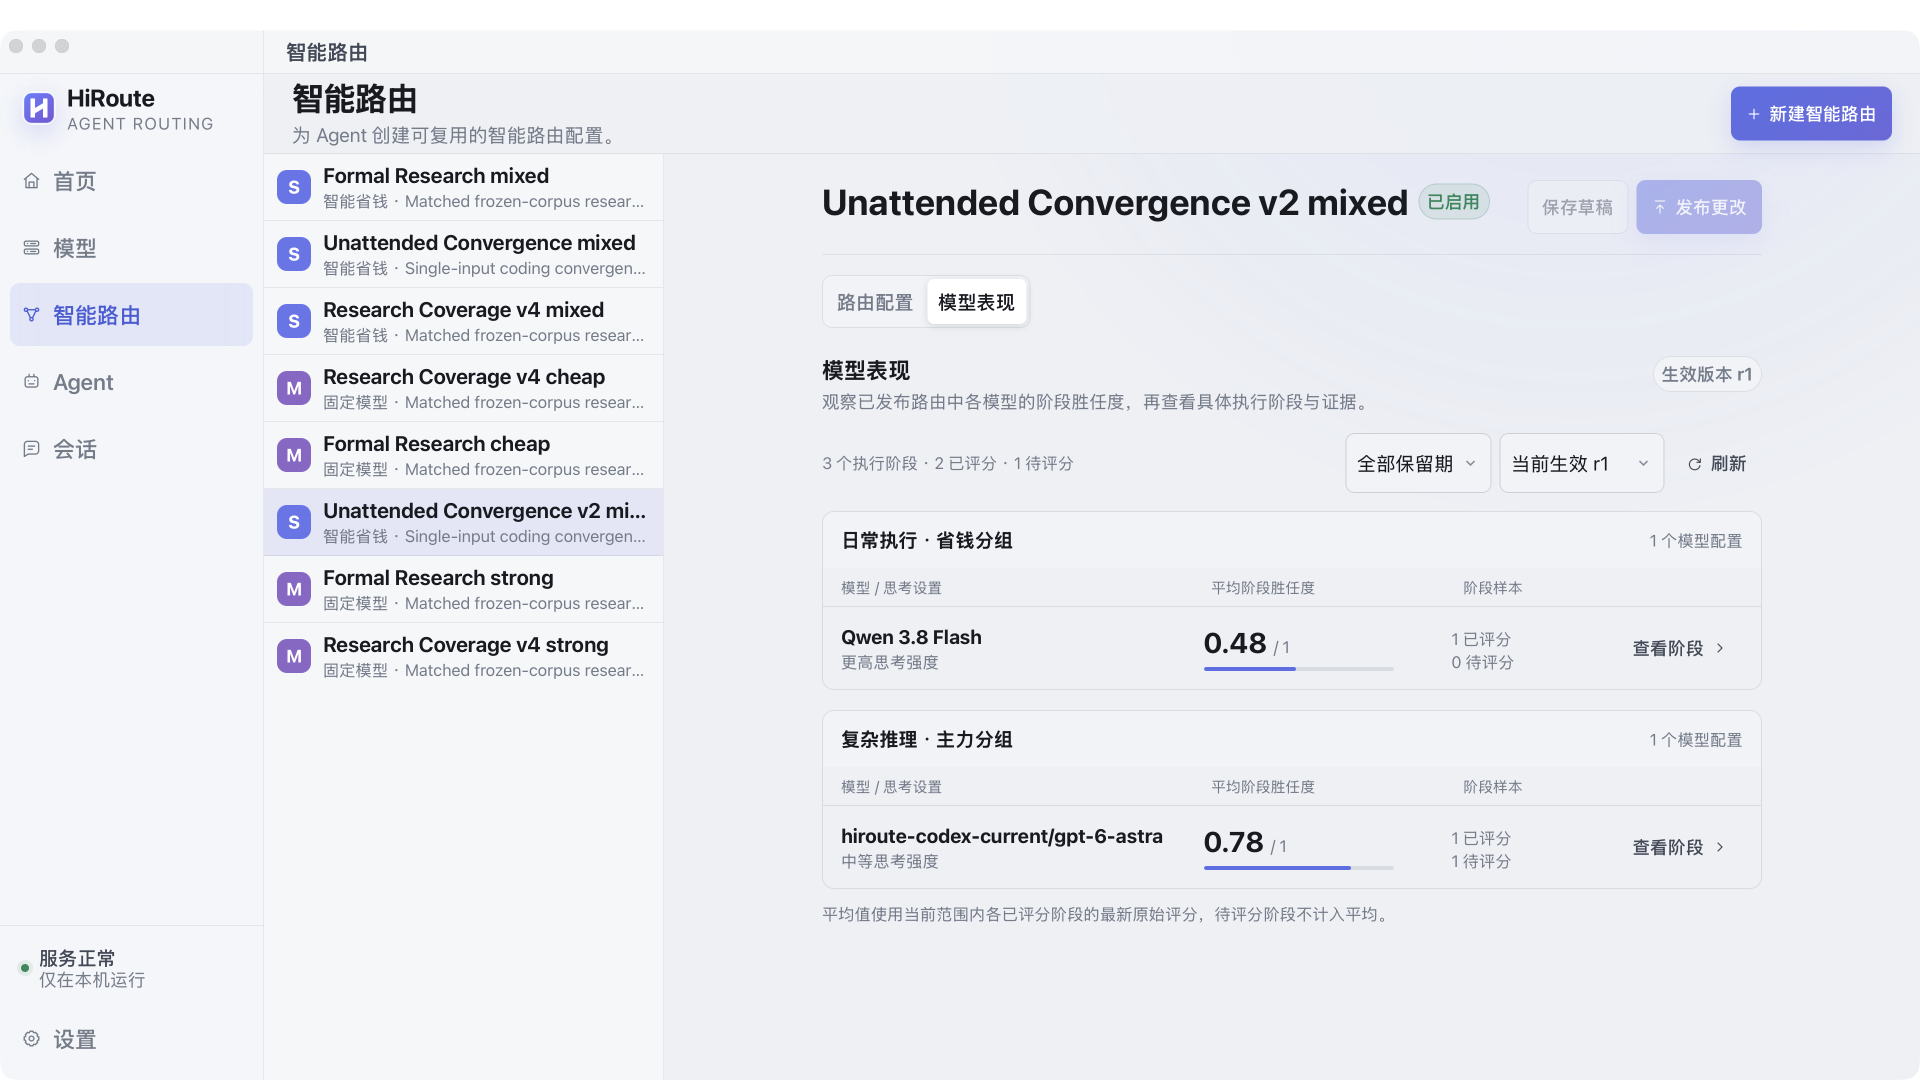
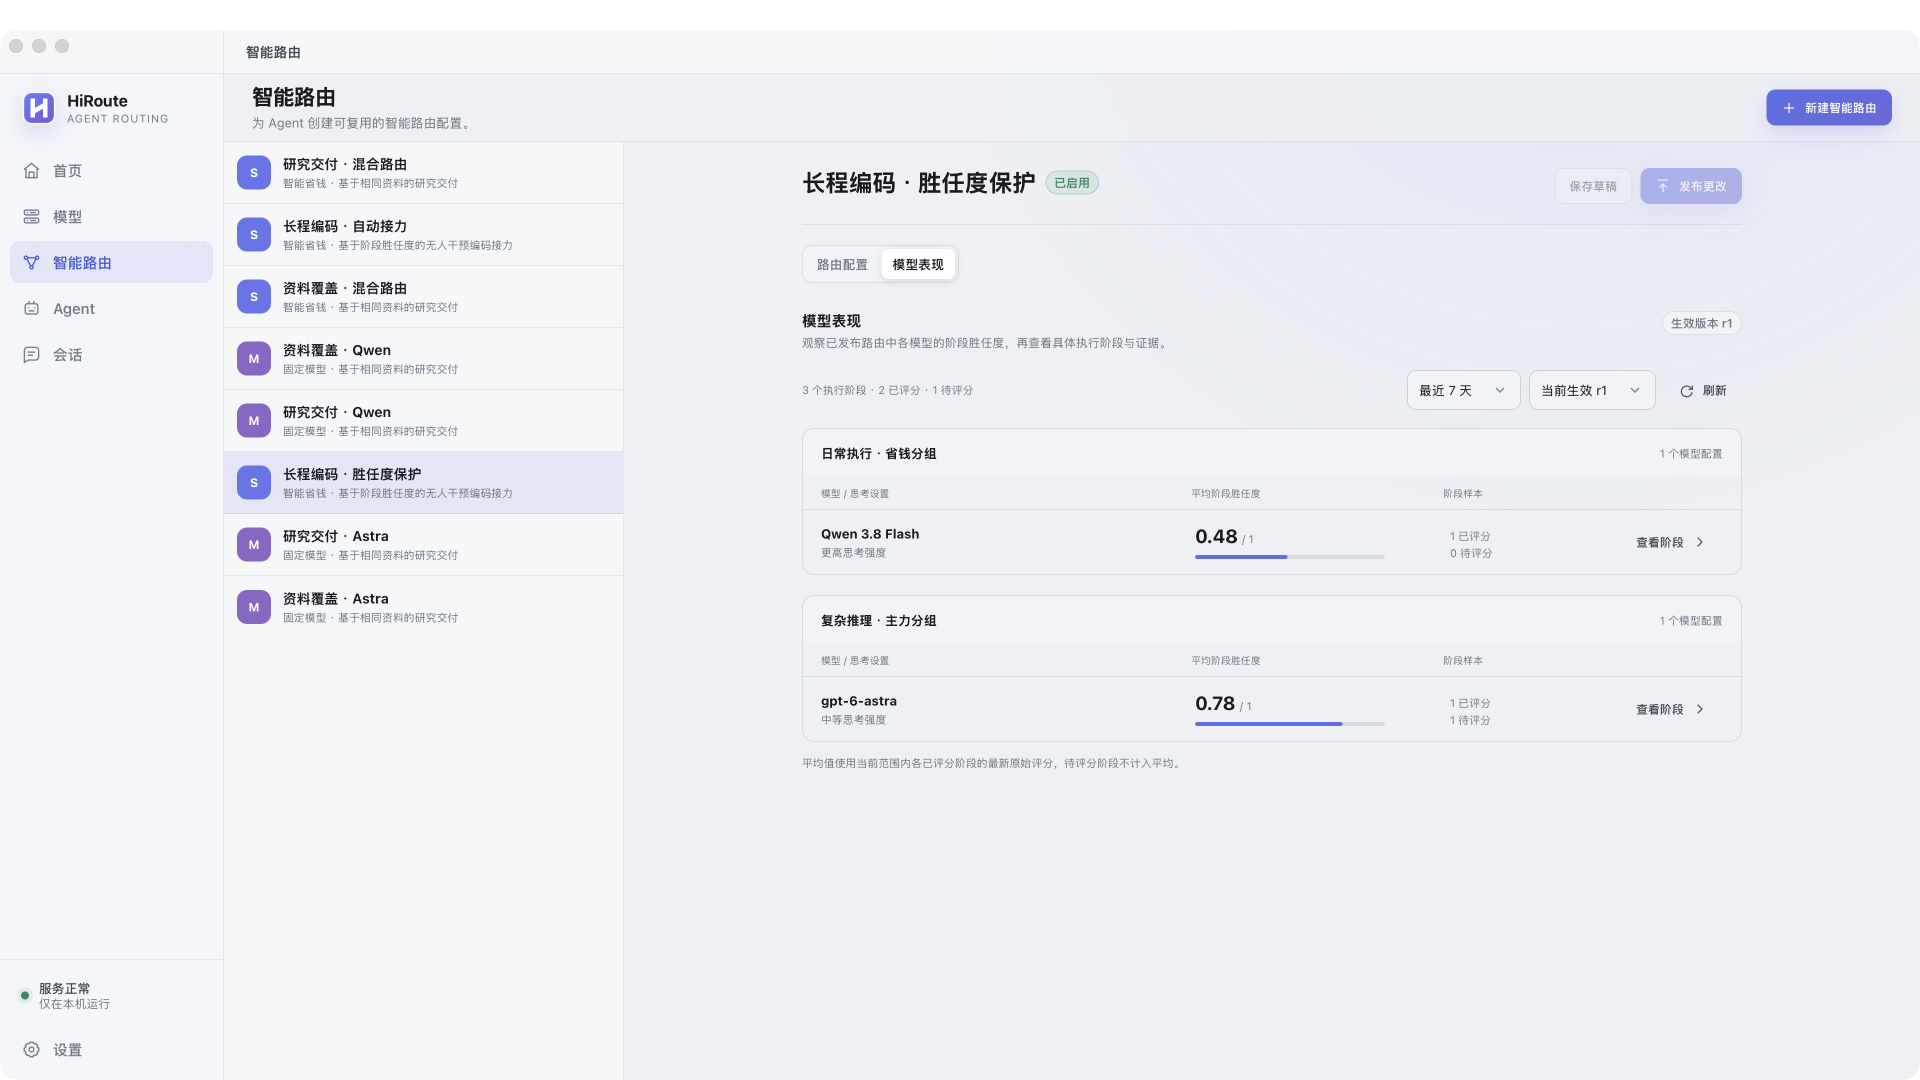
docs(news): refresh native competence captures at 100 percent text size

diff --git a/news/ILLUSTRATIONS.md b/news/ILLUSTRATIONS.md
@@ -108,7 +108,12 @@ The four images are native captures of HiRoute Desktop on macOS:
 Desktop reads an isolated copy of the unchanged observation records retained from
 this HTTPX case. The images come from the production UI and local daemon, without
 mock IPC, generated interface text or image edits. Both languages were selected
-through the app's settings. Native validation covered stage and assessment-trigger
+through the app's settings, with 100% text size in all four captures. The Chinese
+routing list translates plan names and purposes in the isolated replay catalog;
+the English list retains the source names. Plan IDs, revisions, model candidates,
+execution identities and scores are unchanged. The main competence views display
+`gpt-6-astra`; the full CPA transport ID remains in expandable stage details.
+Native validation covered stage and assessment-trigger
 navigation, exact model drill-down, unrated filtering, scope changes, refresh on
 re-entry, and preserving draft settings without changing published-plan statistics.
 Capture hashes, binary hashes and the source evidence archive are recorded in
